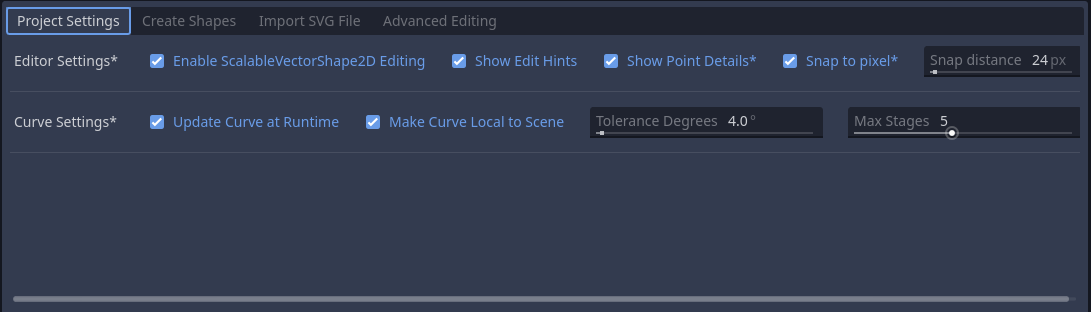
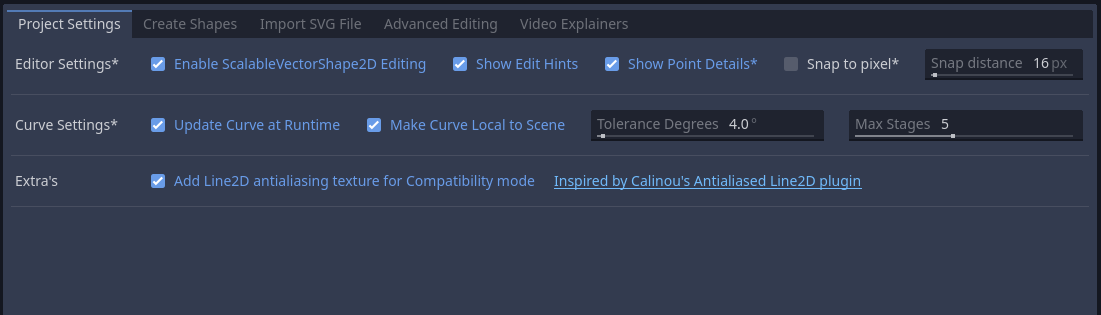
updates readme's and change log

diff --git a/addons/curved_lines_2d/README.md b/addons/curved_lines_2d/README.md
@@ -37,6 +37,7 @@ In this 10 minute video I explain how to use all the features of Scalable Vector
 - [The Project Settings Dock](#the-project-settings-dock)
   - [Editor Settings (how the 2D Viewport should behave):](#editor-settings-how-the-2d-viewport-should-behave)
   - [Curve Settings](#curve-settings)
+  - [Extra's: Line2D antialiasing for Compatibility Mode](#extras-line2d-antialiasing-for-compatibility-mode)
 - [The Advanced Tab](#the-advanced-tab)
   - [Basic export options](#basic-export-options)
   - [Bake Animations](#bake-animations)
@@ -227,6 +228,18 @@ These settings are applied to the `Curve Settings` of new shapes when added via 
 
 For more information on these settings, please refer to the section on [The Curve settings inspector form](#the-curve-settings-inspector-form)
 
+## Extra's: Line2D antialiasing for Compatibility Mode
+
+As of release `2.18.0` a new flag was added which causes any `Line2D` that you add as stroke to be antialiased via a repeating texture.
+
+This approach follows exactly the [Antialiased Line2D plugin](https://github.com/godot-extended-libraries/godot-antialiased-line2d) by @Calinou. 
+
+To be more specific, I reused these bits:
+- The tool script code for the `Line2D` creation is here: [addons/antialiased_line2d/antialiased_line2d.gd](https://github.com/godot-extended-libraries/godot-antialiased-line2d/blob/v1.2.0/addons/antialiased_line2d/antialiased_line2d.gd)
+- And the [LumAlpha8.tex](./LumAlpha8.tex) texture resource it uses was generated by this script: [addons/antialiased_line2d/texture.gd](https://github.com/godot-extended-libraries/godot-antialiased-line2d/blob/v1.2.0/addons/antialiased_line2d/texture.gd)
+
+Of course, once you assign this to the `Line2D.texture`, you cannot use another texture on that `Line2D` anymore.
+
 # The Advanced Tab
 
 Since release `2.13.0` a tab named 'Advanced' is added to the bottom dock.
@@ -310,6 +323,7 @@ The `size` property can be used to set keyframes in an `AnimationPlayer` and is 
 When the `Shape Type Settings > Shape Type` is `Path`, all the points can be resized in 2 ways:
 1. Away from / towards the `Node2D`'s pivot
 2. Away from / towards their natural center (by holding Shift)
+
 
 
 ## Flipping your shapes

diff --git a/README.md b/README.md
@@ -37,6 +37,7 @@ In this 10 minute video I explain how to use all the features of Scalable Vector
 - [The Project Settings Dock](#the-project-settings-dock)
 	- [Editor Settings (how the 2D Viewport should behave):](#editor-settings-how-the-2d-viewport-should-behave)
 	- [Curve Settings](#curve-settings)
+	- [Extra's: Line2D antialiasing for Compatibility Mode](#extras-line2d-antialiasing-for-compatibility-mode)
 - [The Advanced Tab](#the-advanced-tab)
 	- [Basic export options](#basic-export-options)
 	- [Bake Animations](#bake-animations)
@@ -226,6 +227,18 @@ The link it shows is to the issues list on the github repository hosting this pl
 These settings are applied to the `Curve Settings` of new shapes when added via the bottom panel docks (either SVG importer or via Create Shapes).
 
 For more information on these settings, please refer to the section on [The Curve settings inspector form](#the-curve-settings-inspector-form)
+
+## Extra's: Line2D antialiasing for Compatibility Mode
+
+As of release `2.18.0` a new flag was added which causes any `Line2D` that you add as stroke to be antialiased via a repeating texture.
+
+This approach follows exactly the [Antialiased Line2D plugin](https://github.com/godot-extended-libraries/godot-antialiased-line2d) by @Calinou. 
+
+To be more specific, I reused these bits:
+- The tool script code for the `Line2D` creation is here: [addons/antialiased_line2d/antialiased_line2d.gd](https://github.com/godot-extended-libraries/godot-antialiased-line2d/blob/v1.2.0/addons/antialiased_line2d/antialiased_line2d.gd)
+- And the [LumAlpha8.tex](./addons/curved_lines_2d/LumAlpha8.tex) texture resource it uses was generated by this script: [addons/antialiased_line2d/texture.gd](https://github.com/godot-extended-libraries/godot-antialiased-line2d/blob/v1.2.0/addons/antialiased_line2d/texture.gd)
+
+Of course, once you assign this to the `Line2D.texture`, you cannot use another texture on that `Line2D` anymore.
 
 # The Advanced Tab
 

diff --git a/CHANGELOG.md b/CHANGELOG.md
@@ -1,5 +1,8 @@
 # Changelog
 
+## 2.18.0
+- Automatically set an antialiasing texture for Line2D, adding Compatibility support, inspired by Calinou's Antialiased Line2D plugin (in the Scalable Vector Shapes 2D bottom dock under the Project Settings tab).
+
 ## 2.17.4
 
 ### Added
